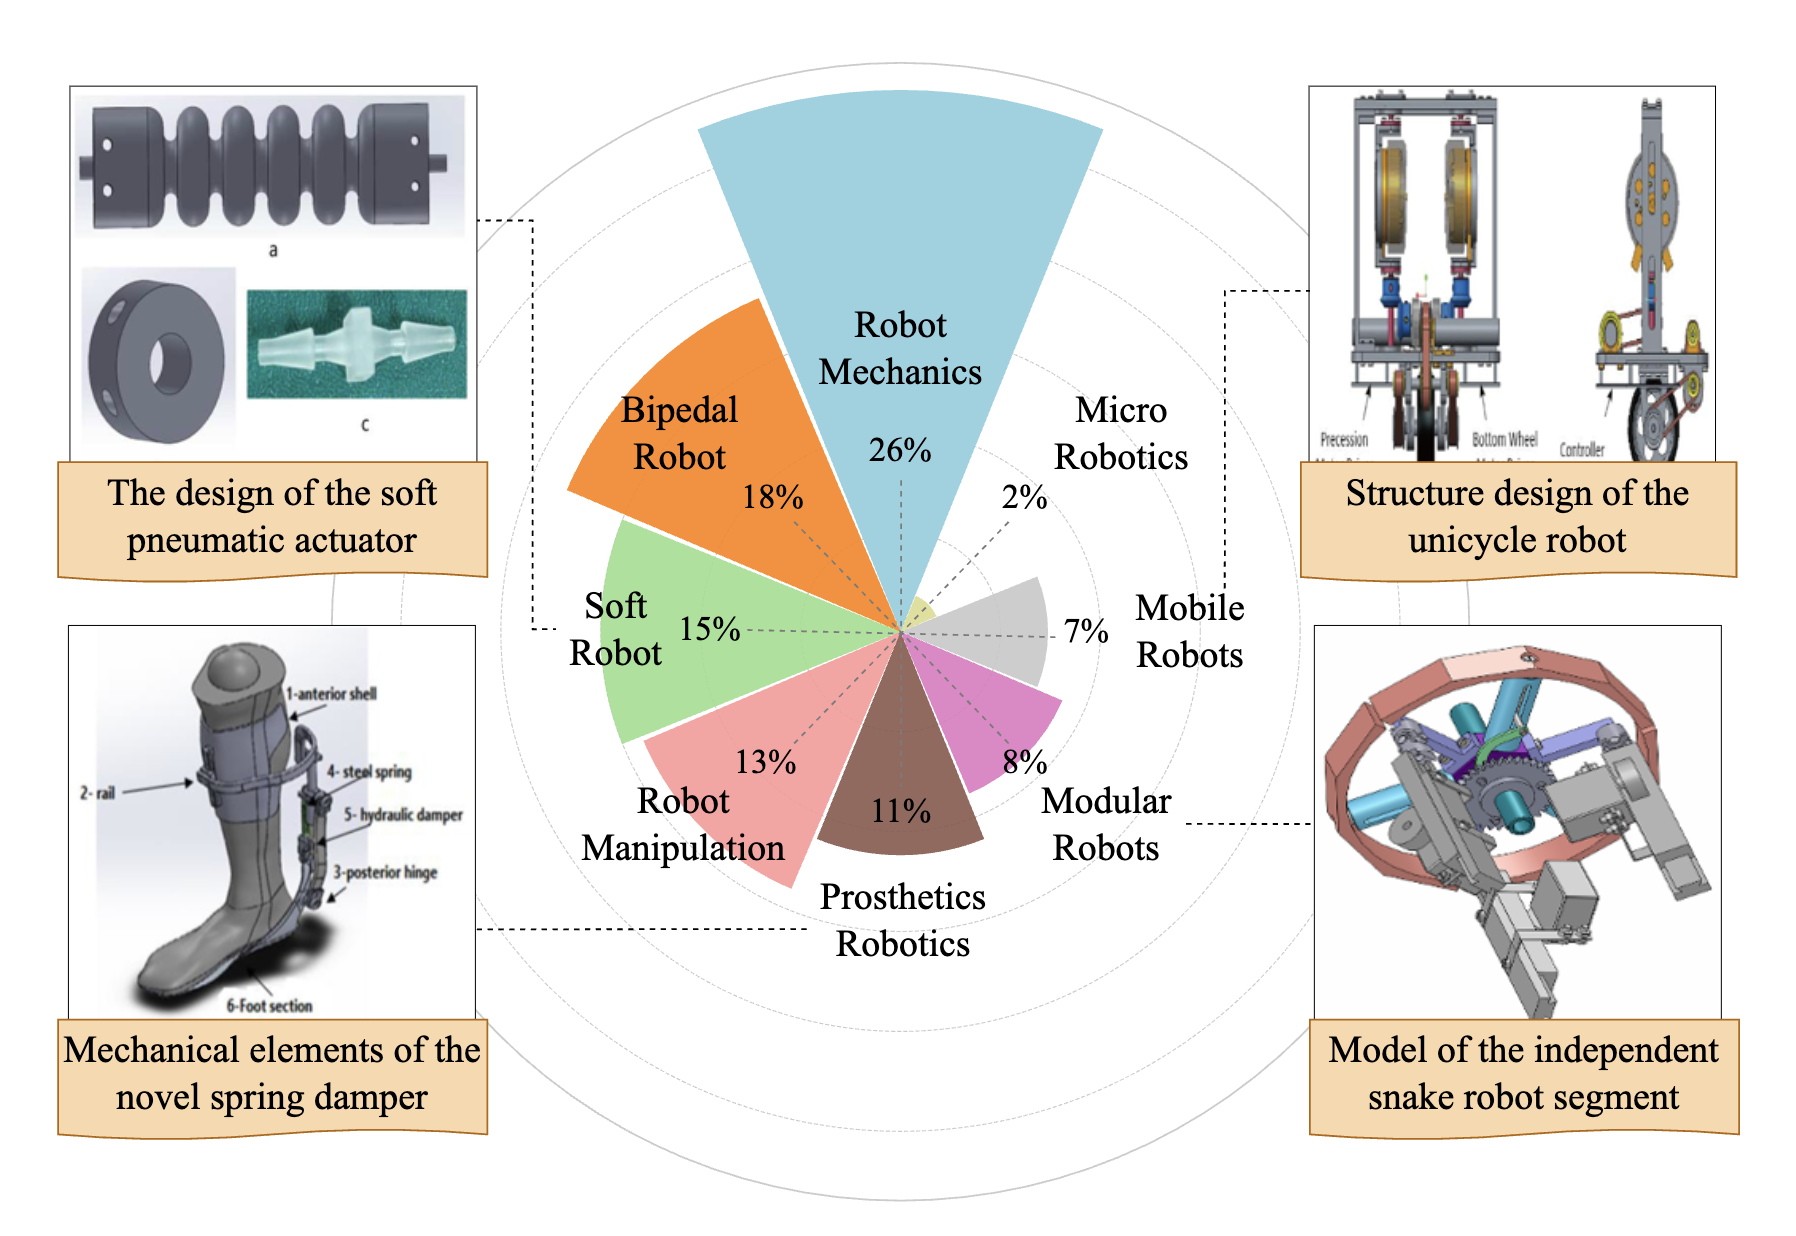
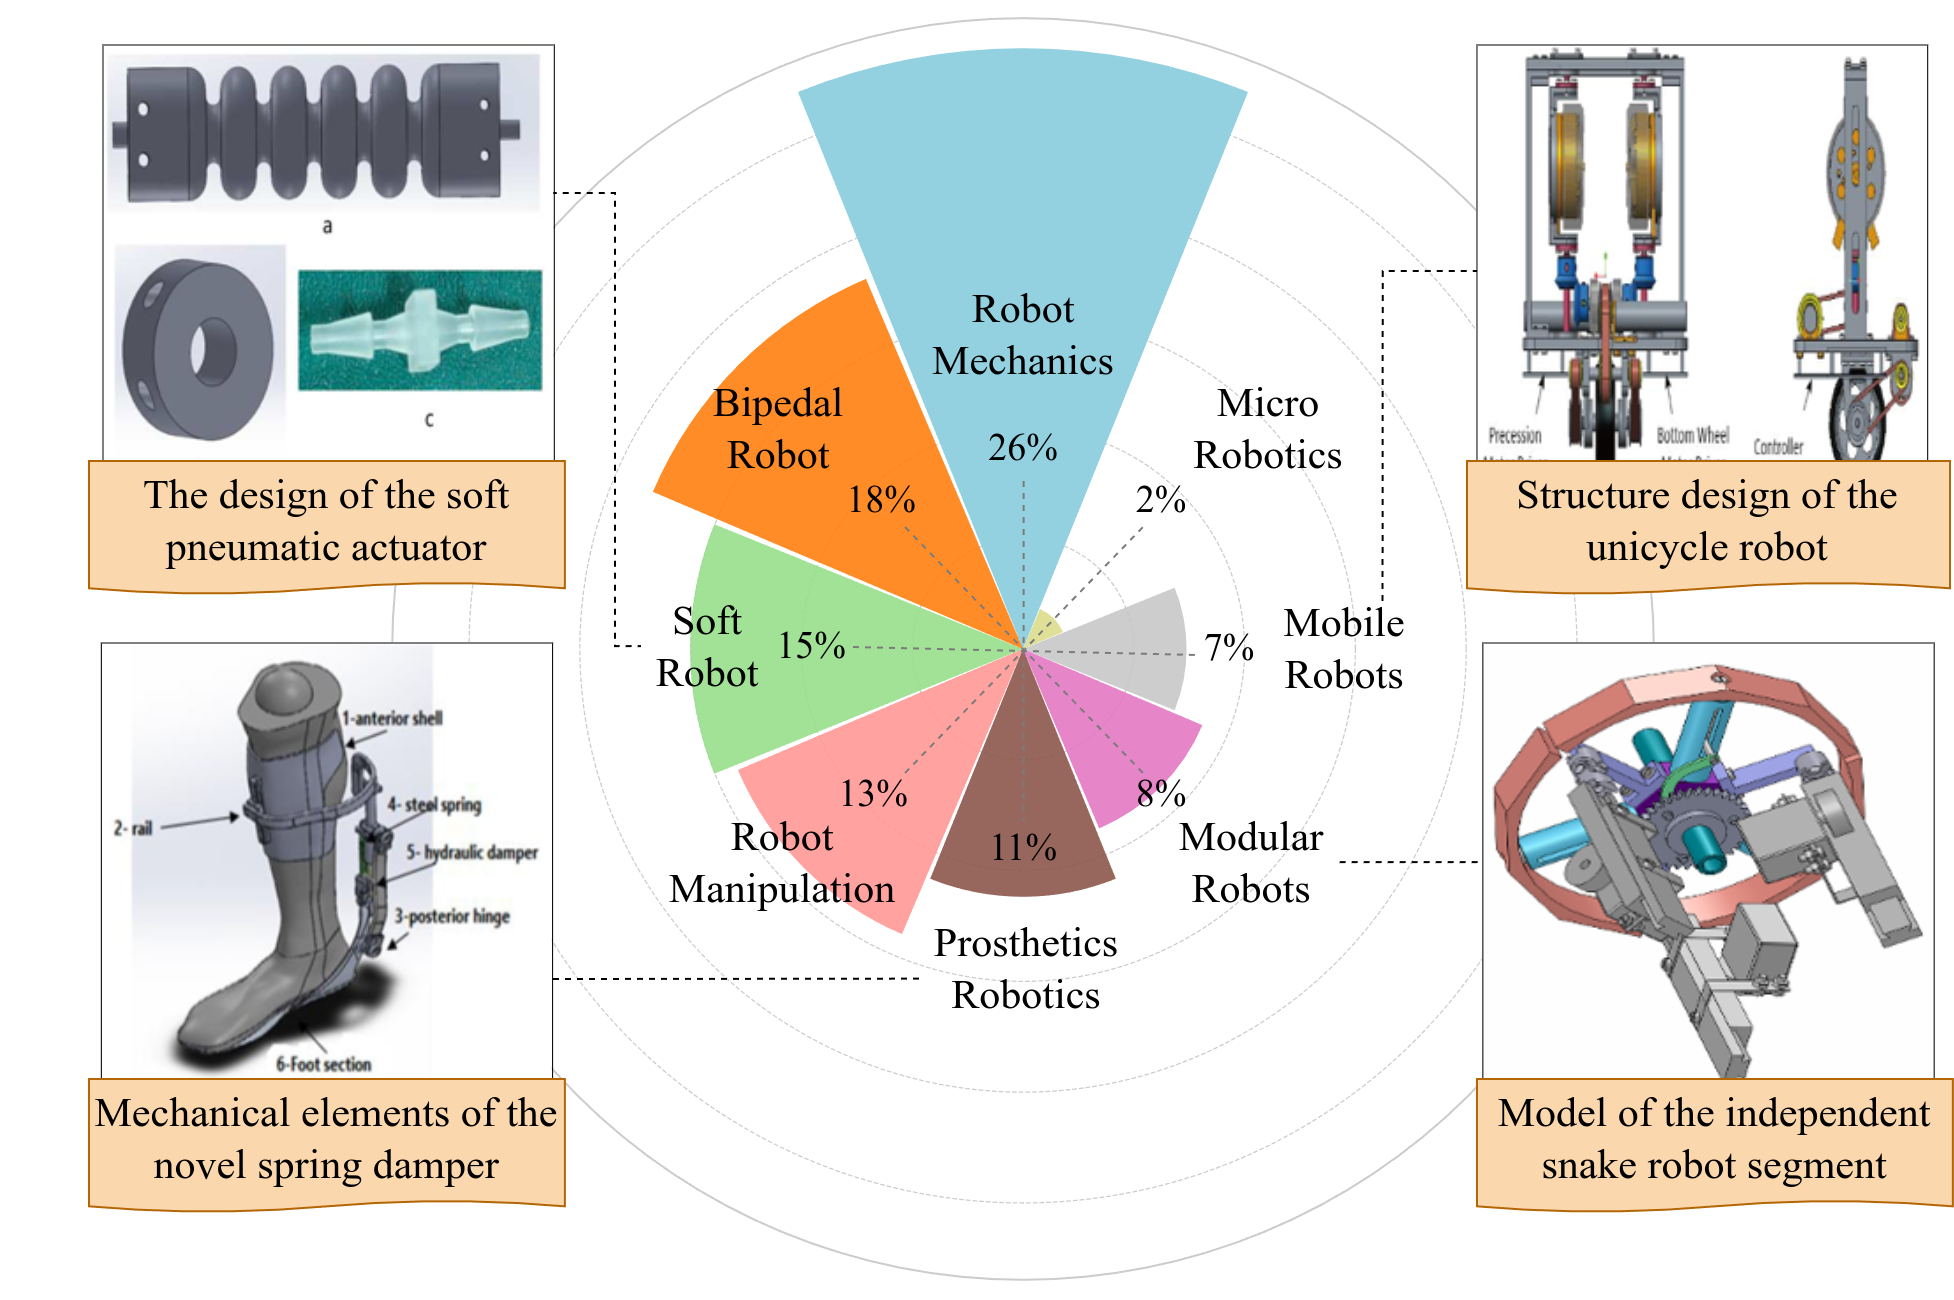
update

diff --git a/index.html b/index.html
@@ -187,7 +187,7 @@
                 <!-- Publication 2: RobotDesign1M -->
                 <article class="publication-card published animate-on-scroll">
                     <div class="paper-image-container">
-                        <img src="assets/robotdesign1m.png" alt="RobotDesign1M paper visualization">
+                        <img src="assets/robodesign.png" alt="RobotDesign1M paper visualization">
                     </div>
                     <div class="paper-content">
                         <h3 class="paper-title">RobotDesign1M: A Large-scale Dataset for Robot Design Understanding</h3>
